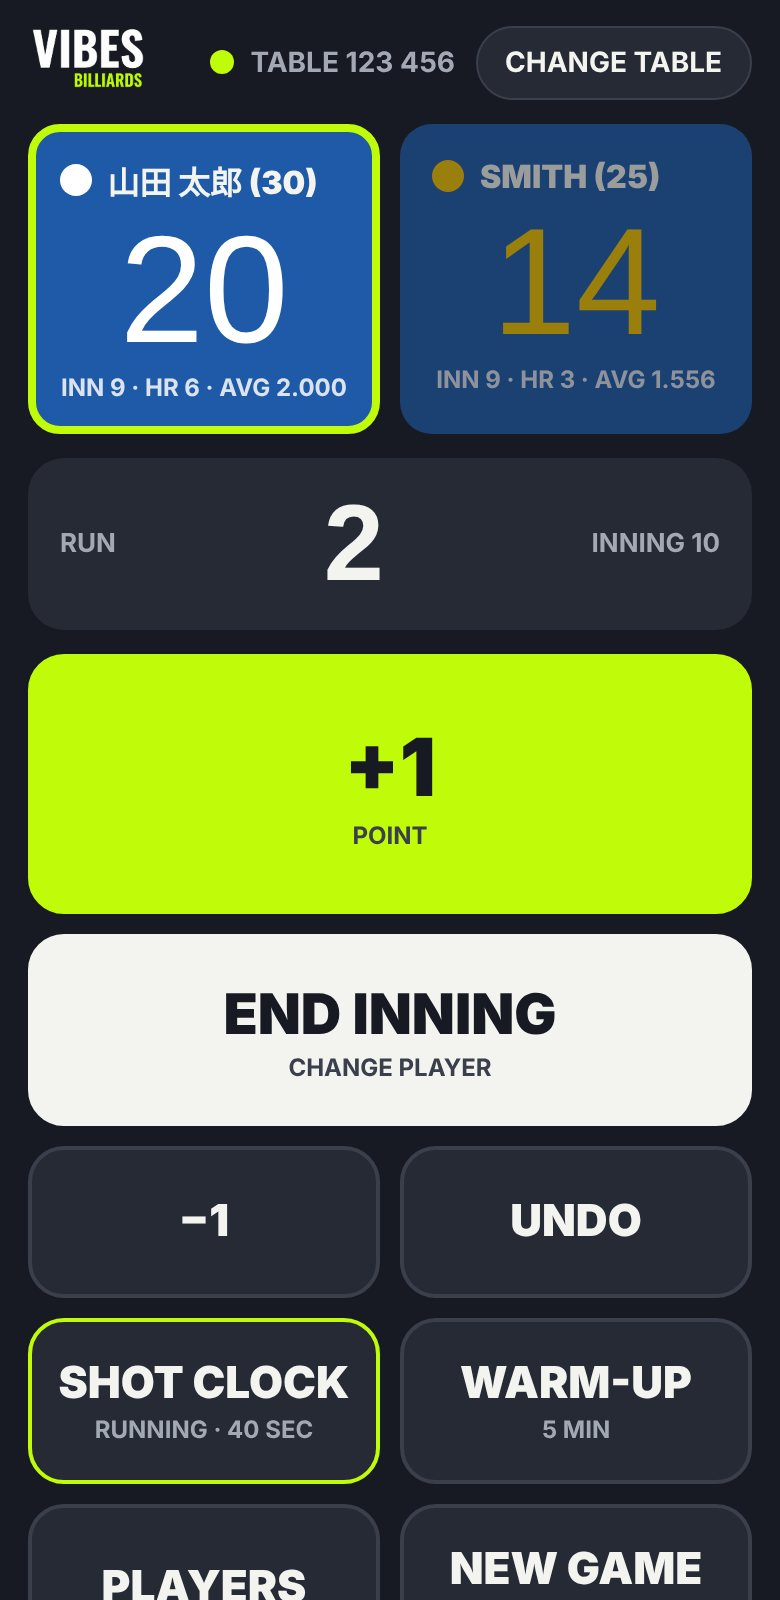
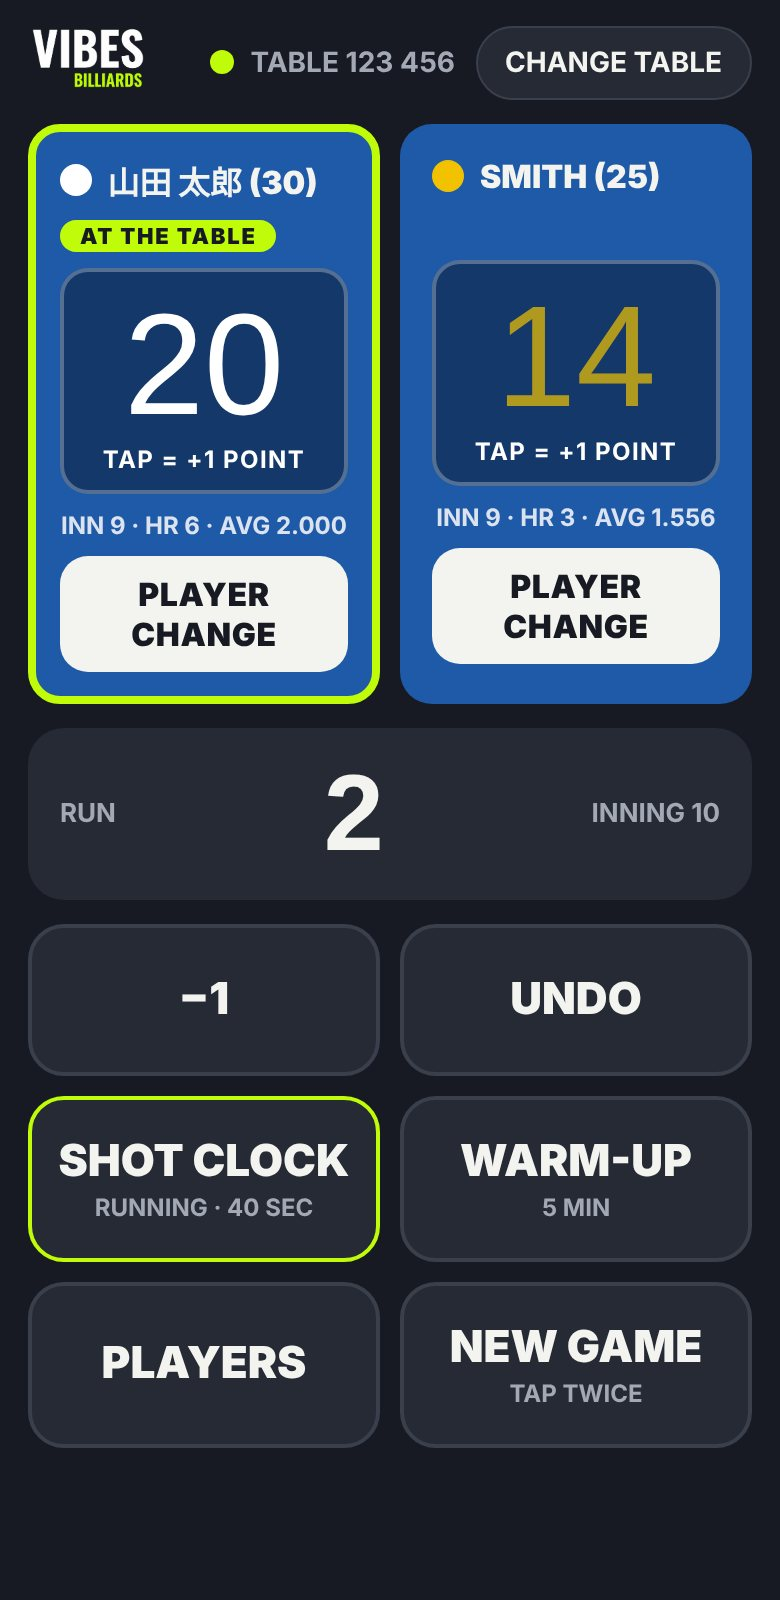
Remote: tap either score to count for the shooter, PLAYER CHANGE on both sides
Claude-Session: https://claude.ai/code/session_01C8AGbxpqRN5xFvNoiAAhKY

diff --git a/static/apps/count-remote.html b/static/apps/count-remote.html
@@ -34,12 +34,21 @@ input:focus{outline:none;border-color:var(--lime)}
 .go{background:var(--lime);color:var(--night);font-weight:900;font-size:20px;border-radius:14px;padding:16px;width:100%}
 .err{color:#FF8A8F;font-weight:700;font-size:14px;min-height:20px;margin:8px 0 0}
 .pl{display:grid;grid-template-columns:1fr 1fr;gap:10px}
-.p{background:var(--felt);border-radius:16px;padding:12px;border:4px solid transparent;opacity:.6;min-width:0}
-.p.on{opacity:1;border-color:var(--lime)}
+.p{background:var(--felt);border-radius:16px;padding:12px;border:4px solid transparent;min-width:0;display:flex;flex-direction:column;gap:8px;position:relative}
+.p.on{border-color:var(--lime)}
+.p .at{display:none;font-style:normal;align-self:flex-start;background:var(--lime);color:var(--night);font-weight:900;font-size:11px;letter-spacing:.08em;padding:1px 10px;border-radius:99px}
+.p.on .at{display:block}.p:not(.on) .at{display:block;visibility:hidden}
+.p .tap{display:block;width:100%;background:rgba(10,16,30,.45);border:2px solid rgba(255,255,255,.28);border-radius:14px;padding:10px 4px 8px;color:inherit;font:inherit;cursor:pointer;touch-action:manipulation}
+.p .tap:active{background:rgba(255,255,255,.22);transform:scale(.98)}
+.p .tap small{color:#fff;font-size:12px;letter-spacing:.06em}
+.p:not(.on) .tap .sc{opacity:.7}
+.p .chg{width:100%;min-height:58px;border-radius:14px;border:0;background:var(--chalk);color:var(--night);font:inherit;font-weight:900;font-size:16px;letter-spacing:.02em;cursor:pointer;touch-action:manipulation}
+.p .chg:active{background:#D9DBD3;transform:scale(.98)}
+.p .tap:focus-visible,.p .chg:focus-visible{outline:3px solid var(--lime);outline-offset:2px}
 .p .nm{display:flex;align-items:center;gap:8px;font-weight:900;font-size:16px;min-width:0}
 .p .nm span{overflow:hidden;text-overflow:ellipsis;white-space:nowrap}
 .p .nm i{width:16px;height:16px;border-radius:50%;flex:none}
-.p .sc{font-size:76px;text-align:center;margin:6px 0 2px}
+.p .sc{display:block;font-size:72px;text-align:center;line-height:1.05}
 .p0 .sc{color:#fff}.p1 .sc{color:var(--yellow)}
 .p small{display:block;text-align:center;font-weight:700;font-size:12px;color:#DCE3F0}
 .run{display:flex;align-items:center;justify-content:space-between;gap:10px}
@@ -86,13 +95,11 @@ input:focus{outline:none;border-color:var(--lime)}
   <section id="vMain" hidden style="display:flex;flex-direction:column;gap:12px">
     <div class="over" id="over" hidden></div>
     <div class="pl">
-      <div class="p p0" id="p0"><div class="nm"><i style="background:#fff"></i><span id="n0"></span></div><div class="sc num" id="s0">0</div><small id="d0"></small></div>
-      <div class="p p1" id="p1"><div class="nm"><i style="background:#F2C200"></i><span id="n1"></span></div><div class="sc num" id="s1">0</div><small id="d1"></small></div>
+      <div class="p p0" id="p0"><div class="nm"><i style="background:#fff"></i><span id="n0"></span></div><em class="at">AT THE TABLE</em><button type="button" class="tap" data-c="add" aria-label="Add one point"><span class="sc num" id="s0">0</span><small>TAP = +1 POINT</small></button><small id="d0"></small><button type="button" class="chg" data-c="commit">PLAYER CHANGE</button></div>
+      <div class="p p1" id="p1"><div class="nm"><i style="background:#F2C200"></i><span id="n1"></span></div><em class="at">AT THE TABLE</em><button type="button" class="tap" data-c="add" aria-label="Add one point"><span class="sc num" id="s1">0</span><small>TAP = +1 POINT</small></button><small id="d1"></small><button type="button" class="chg" data-c="commit">PLAYER CHANGE</button></div>
     </div>
     <div class="card run"><small>RUN</small><b class="num" id="run">0</b><small id="inn"></small></div>
     <div class="pad">
-      <button type="button" class="k big" data-c="add">+1<small>POINT</small></button>
-      <button type="button" class="k end" data-c="commit">END INNING<small>CHANGE PLAYER</small></button>
       <button type="button" class="k" data-c="sub">−1</button>
       <button type="button" class="k" data-c="undo">UNDO</button>
       <button type="button" class="k" data-c="clock" id="kClock">SHOT CLOCK<small id="kClockS"></small></button>
@@ -163,7 +170,7 @@ input:focus{outline:none;border-color:var(--lime)}
   });
   $('iCode').addEventListener('input', function () { var v = this.value.replace(/\D/g, '').slice(0, 6); this.value = v.length > 3 ? v.slice(0, 3) + ' ' + v.slice(3) : v; });
   $('bCode').onclick = function () { code = ''; try { localStorage.removeItem(CK); } catch (x) {} if (ws) { try { ws.onclose = null; ws.close(); } catch (x) {} ws = null; } last = null; status(false, 'NOT CONNECTED'); show('vJoin'); };
-  Array.prototype.forEach.call(document.querySelectorAll('.k[data-c]'), function (b) { b.addEventListener('click', function () { send({ type: 'cmd', c: b.getAttribute('data-c') }); if (navigator.vibrate) navigator.vibrate(15); }); });
+  Array.prototype.forEach.call(document.querySelectorAll('[data-c]'), function (b) { b.addEventListener('click', function () { send({ type: 'cmd', c: b.getAttribute('data-c') }); if (navigator.vibrate) navigator.vibrate(15); }); });
   $('kNew').onclick = function () { var n = Date.now(); if (n - newAt < 2000) { newAt = 0; send({ type: 'cmd', c: 'newgame' }); this.querySelector('small').textContent = 'TAP TWICE'; } else { newAt = n; this.querySelector('small').textContent = 'TAP AGAIN TO CONFIRM'; var el = this; setTimeout(function () { el.querySelector('small').textContent = 'TAP TWICE'; }, 2000); } };
   function chips(p) {
     var box = $('sv' + p), q = $('pn' + p).value.trim(); box.textContent = '';

diff --git a/static/apps/count-3c.html b/static/apps/count-3c.html
@@ -196,7 +196,7 @@ html,body{-webkit-font-smoothing:antialiased;-moz-osx-font-smoothing:grayscale;t
     <div class="sheet" id="sheet"></div>
     <div class="cd" id="tbox" aria-label="Shot clock"><div class="segs" id="segs"></div><b class="num" id="tm">40</b></div>
     <div class="keys" style="margin-top:.8vh">
-      <span><kbd>+</kbd>+1 POINT</span><span><kbd>-</kbd>-1 POINT</span><span><kbd>0-9</kbd>ENTER POINTS</span><span><kbd>Enter</kbd>END INNING</span><span><kbd>BackSpace</kbd>UNDO</span><span><kbd>*</kbd>SHOT CLOCK</span><span><kbd>-</kbd>WARM-UP (BEFORE START)</span><span><kbd>/</kbd>SETTINGS</span><span><kbd>.</kbd>×2 NEW GAME</span>
+      <span><kbd>+</kbd>+1 POINT</span><span><kbd>-</kbd>-1 POINT</span><span><kbd>0-9</kbd>ENTER POINTS</span><span><kbd>Enter</kbd>PLAYER CHANGE</span><span><kbd>BackSpace</kbd>UNDO</span><span><kbd>*</kbd>SHOT CLOCK</span><span><kbd>-</kbd>WARM-UP (BEFORE START)</span><span><kbd>/</kbd>SETTINGS</span><span><kbd>.</kbd>×2 NEW GAME</span>
     </div>
   </div>
 </div>

diff --git a/manual/gen.py b/manual/gen.py
@@ -215,7 +215,7 @@ page(11, '試合の流れ',
   ('持ち点に届いたら試合終了', f'「GAME OVER」と結果が出ます。{kbd("Enter")} で次の試合（選手の登録）へ進みます。'),
  ]) + '<div class="two imgs">' + f'<figure>{img("play")}<figcaption>試合中：{kbd("+")} を2回押した所。得点が2になり、TIMEの下に「RUN 2」と出ます</figcaption></figure><figure>{img("win")}<figcaption>試合終了：勝った選手（WINNER）と成績が出ます</figcaption></figure></div>' +
  note('裏撞き（うらづき）について', '誰かが先に持ち点に届いても、その回の最後の選手まで撞いてから試合終了になります。いらない時は、設定（<b class="in">16章</b>）の「EQUALIZING INNING」を OFF にします。'),
- '上から順に押していけば、1試合ができます。')
+ 'スリークッションでは、座っている人（相手）がカウントします。撞き終わった人は、席にもどって交代のキーを押します。')
 
 # ---------- 12 players 1 ----------
 kana = '<div class="kana">' + ''.join(f'<div><kbd>{k}</kbd>' + ''.join(f'<span>{c}<em>{i+1}</em></span>' for i, c in enumerate(r)) + '</div>' for k, r in [(1,'あいうえお'),(6,'はひふへほ'),(2,'かきくけこ'),(7,'まみむめも'),(3,'さしすせそ'),(8,'やゆよ'),(4,'たちつてと'),(9,'らりるれろ'),(5,'なにぬねの'),(0,'わをんー')]) + '</div>'
@@ -255,7 +255,9 @@ page(15, 'タブレット・スマホで操作する（リモコン）',
   ('カウントの画面で「REMOTE」を押す', '画面右上の <b class="in">REMOTE</b> をマウスで押します。6けたの数字（コード）が出ます。'),
   ('タブレットでリモコンのページを開く', f'タブレットのブラウザで <b class="in">{RURL}</b> を開きます。'),
   ('6けたのコードを入れる', 'カウントの画面に出ている数字を入れて、<b class="in">CONNECT</b> を押します。'),
-  ('ボタンで操作する', '<b class="in">+1</b>＝1点　<b class="in">END INNING</b>＝交代　<b class="in">UNDO</b>＝もどす　<b class="in">SHOT CLOCK</b>＝残り秒数　<b class="in">WARM-UP</b>＝練習タイマー　<b class="in">PLAYERS</b>＝名前と持ち点　<b class="in">NEW GAME</b>＝新しい試合（2回押す）'),
+  ('得点は、スコアの数字を押す', '座っている人（相手）がカウントします。<b class="in">どちらのスコアを押しても</b>、今撞いている選手に1点入ります。自分の側のスコアを押せば大丈夫です。'),
+  ('交代は「PLAYER CHANGE」を押す', '撞き終わった人が席にもどって押します。<b class="in">どちらの PLAYER CHANGE を押しても</b>、次の選手の番になります。'),
+  ('そのほかのボタン', '<b class="in">−1</b>＝1点へらす　<b class="in">UNDO</b>＝もどす　<b class="in">SHOT CLOCK</b>＝残り秒数　<b class="in">WARM-UP</b>＝練習タイマー　<b class="in">PLAYERS</b>＝名前と持ち点　<b class="in">NEW GAME</b>＝新しい試合（2回押す）'),
  ]) + img('rmcode') + '</div><div class="phones">' + img('remote_main','phone') + '</div></div>' +
  note('使う時の注意', '<ul><li>パソコンとタブレットの<b class="in">両方</b>が、インターネットにつながっている必要があります。</li><li>コードは台ごとに違います。次に使う時も、同じコードでつながります。</li><li>3人・4人の試合では、リモコンには「今の選手」と「次の選手」が出ます。3人・4人の名前は、カウントの画面で登録してください。</li></ul>'),
  '離れた場所から、タブレットやスマホで得点を入れられます。インターネットが必要です。')
